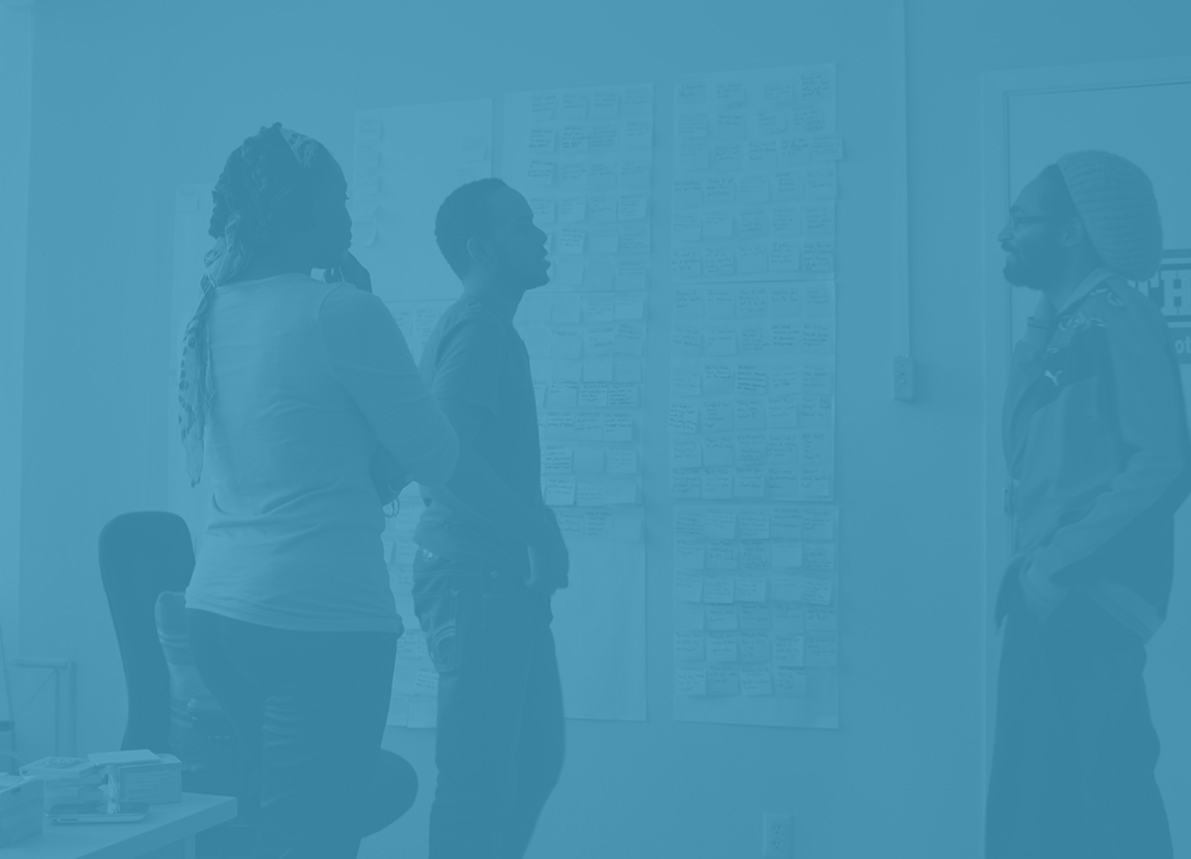
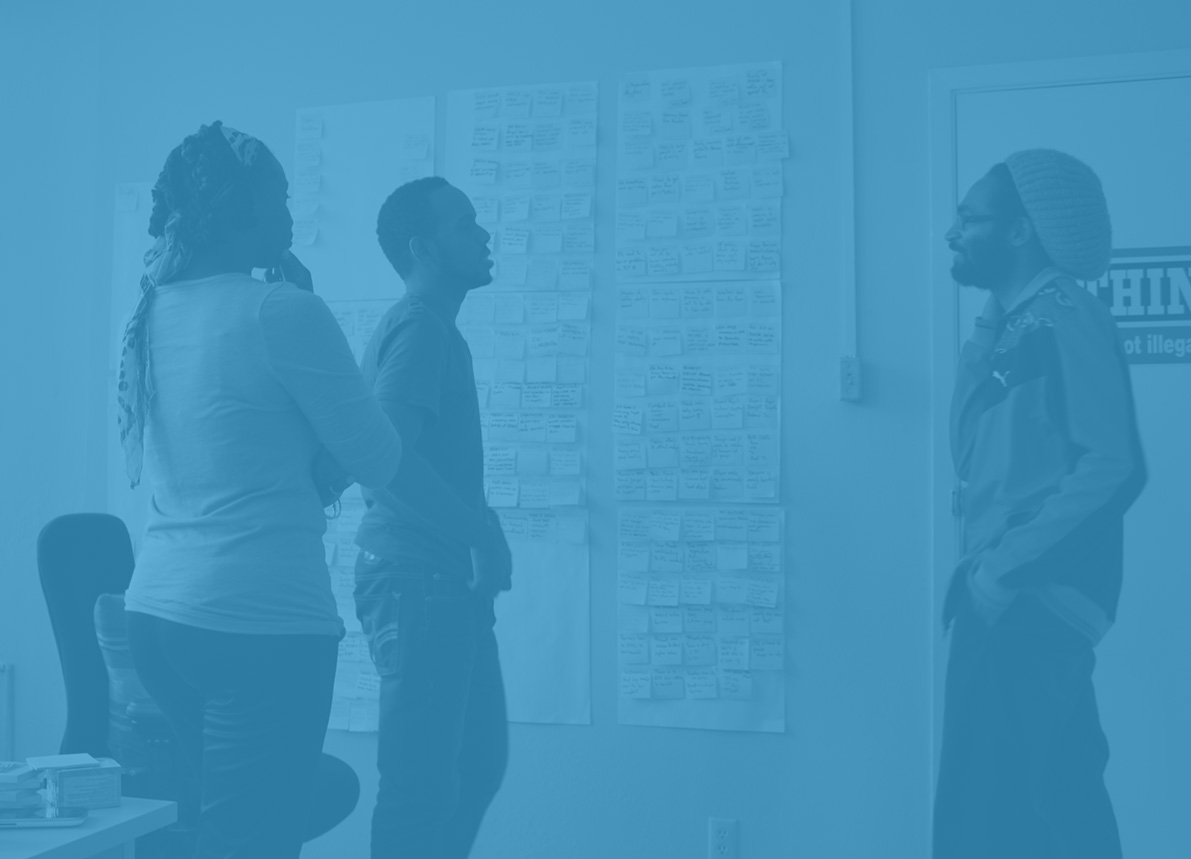
update programs background

diff --git a/_posts/2013-01-19-market.html b/_posts/2013-01-19-market.html
@@ -1,7 +1,7 @@
 ---
 layout: fullpage
 title: Startups
-bgcolor: 2f3d4a
+bgcolor: 399fd3
 pagetype: story
 extrapadding: 100px
 section: accelerator

diff --git a/_posts/2013-01-17-code-for-all.html b/_posts/2013-01-17-code-for-all.html
@@ -1,7 +1,7 @@
 ---
 layout: fullpage
 title: Code for All
-bgcolor: 4298bb
+bgcolor: 399fd3
 pagetype: story
 extrapadding: 100px
 section: people

diff --git a/_posts/2013-01-18-peer.html b/_posts/2013-01-18-peer.html
@@ -1,7 +1,7 @@
 ---
 layout: fullpage
 title: Peer Network
-bgcolor: 7ab5d6
+bgcolor: 399fd3
 pagetype: story
 extrapadding: 100px
 section: people
